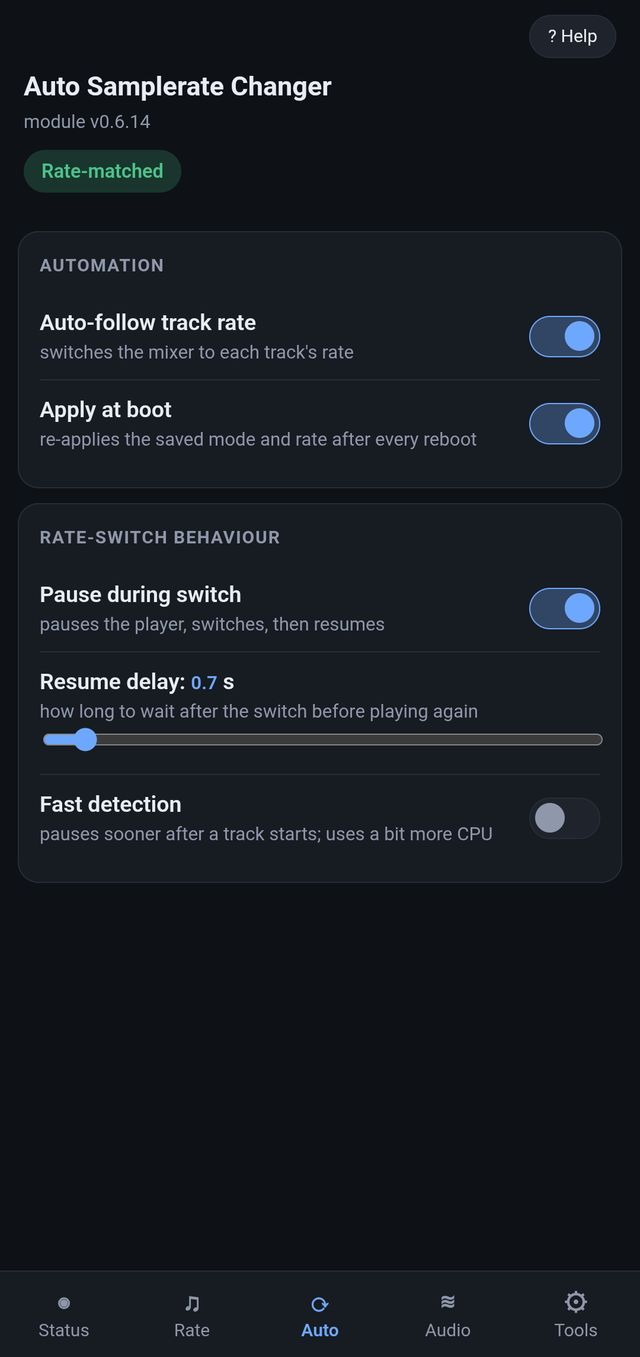
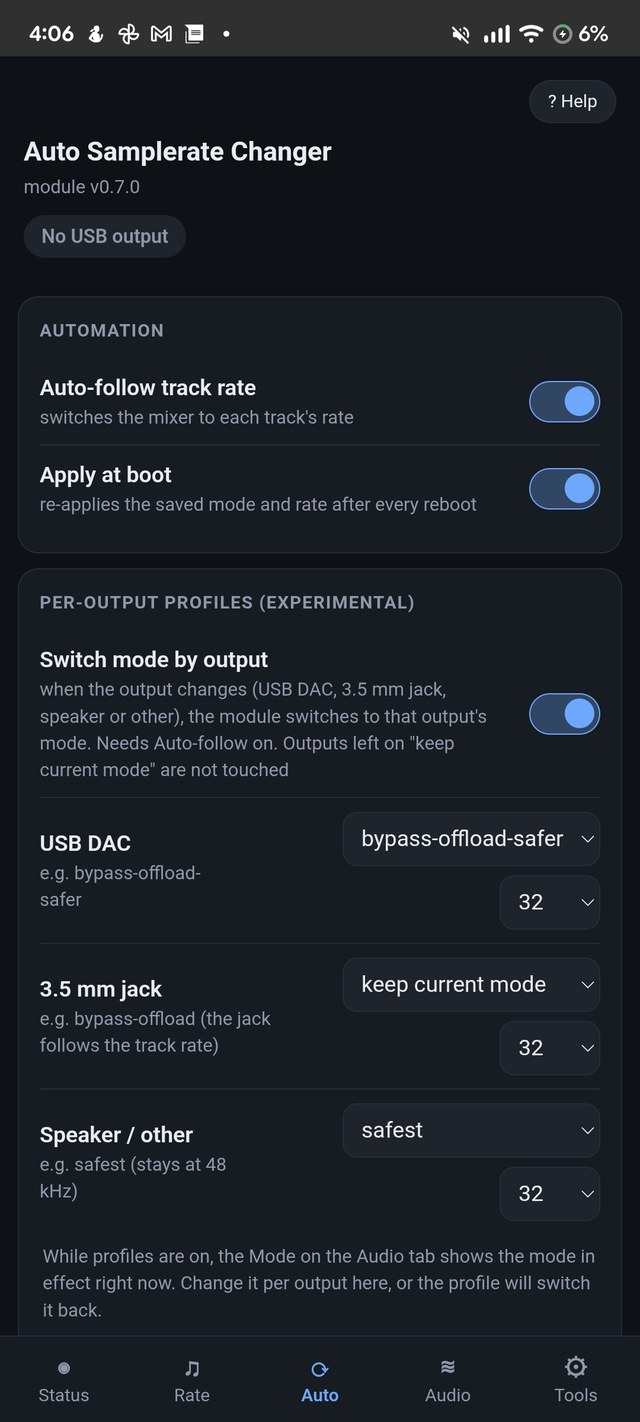
README: auto-follow for jack, profiles and extended rates; new Auto tab screenshots

diff --git a/README.md b/README.md
@@ -46,10 +46,10 @@ Rooted phones or tablets with an **external USB DAC** where the music app's outp
 <table>
 <tr><td align="center"><a href="docs/screenshots/01.jpg"><img src="docs/screenshots/01.jpg" width="200" alt="First run: Auto-follow nudge"></a><br><sub>First run: Auto-follow nudge</sub></td><td align="center"><a href="docs/screenshots/02.jpg"><img src="docs/screenshots/02.jpg" width="200" alt="No USB output"></a><br><sub>No USB output</sub></td><td align="center"><a href="docs/screenshots/03.jpg"><img src="docs/screenshots/03.jpg" width="200" alt="Apple Music, 96 kHz track"></a><br><sub>Apple Music, 96 kHz track</sub></td><td align="center"><a href="docs/screenshots/04.jpg"><img src="docs/screenshots/04.jpg" width="200" alt="Status, 96 kHz rate-matched"></a><br><sub>Status, 96 kHz rate-matched</sub></td></tr>
 <tr><td align="center"><a href="docs/screenshots/05.jpg"><img src="docs/screenshots/05.jpg" width="200" alt="Apple Music, 44.1 kHz track"></a><br><sub>Apple Music, 44.1 kHz track</sub></td><td align="center"><a href="docs/screenshots/06.jpg"><img src="docs/screenshots/06.jpg" width="200" alt="Status, 44.1 kHz rate-matched"></a><br><sub>Status, 44.1 kHz rate-matched</sub></td><td align="center"><a href="docs/screenshots/07.jpg"><img src="docs/screenshots/07.jpg" width="200" alt="Apple Music, 192 kHz track"></a><br><sub>Apple Music, 192 kHz track</sub></td><td align="center"><a href="docs/screenshots/08.jpg"><img src="docs/screenshots/08.jpg" width="200" alt="Status, 192 kHz rate-matched"></a><br><sub>Status, 192 kHz rate-matched</sub></td></tr>
-<tr><td align="center"><a href="docs/screenshots/09.jpg"><img src="docs/screenshots/09.jpg" width="200" alt="Rate tab"></a><br><sub>Rate tab</sub></td><td align="center"><a href="docs/screenshots/10.jpg"><img src="docs/screenshots/10.jpg" width="200" alt="Auto tab"></a><br><sub>Auto tab</sub></td><td align="center"><a href="docs/screenshots/11.jpg"><img src="docs/screenshots/11.jpg" width="200" alt="Audio tab"></a><br><sub>Audio tab</sub></td><td align="center"><a href="docs/screenshots/12.jpg"><img src="docs/screenshots/12.jpg" width="200" alt="Audio: which mode should I pick"></a><br><sub>Audio: which mode should I pick</sub></td></tr>
-<tr><td align="center"><a href="docs/screenshots/13.jpg"><img src="docs/screenshots/13.jpg" width="200" alt="Audio: mode list"></a><br><sub>Audio: mode list</sub></td><td align="center"><a href="docs/screenshots/14.jpg"><img src="docs/screenshots/14.jpg" width="200" alt="Audio: bit depth list"></a><br><sub>Audio: bit depth list</sub></td><td align="center"><a href="docs/screenshots/15.jpg"><img src="docs/screenshots/15.jpg" width="200" alt="Tools, Night theme"></a><br><sub>Tools, Night theme</sub></td><td align="center"><a href="docs/screenshots/16.jpg"><img src="docs/screenshots/16.jpg" width="200" alt="Tools: diagnostics and report"></a><br><sub>Tools: diagnostics and report</sub></td></tr>
-<tr><td align="center"><a href="docs/screenshots/17.jpg"><img src="docs/screenshots/17.jpg" width="200" alt="Day theme"></a><br><sub>Day theme</sub></td><td align="center"><a href="docs/screenshots/18.jpg"><img src="docs/screenshots/18.jpg" width="200" alt="Retro paper theme"></a><br><sub>Retro paper theme</sub></td><td align="center"><a href="docs/screenshots/19.jpg"><img src="docs/screenshots/19.jpg" width="200" alt="Retro night theme"></a><br><sub>Retro night theme</sub></td><td align="center"><a href="docs/screenshots/20.jpg"><img src="docs/screenshots/20.jpg" width="200" alt="Wavelet equalizer on"></a><br><sub>Wavelet equalizer on</sub></td></tr>
-<tr><td align="center"><a href="docs/screenshots/21.jpg"><img src="docs/screenshots/21.jpg" width="200" alt="Status with sound effects on"></a><br><sub>Status with sound effects on</sub></td><td align="center"><a href="docs/screenshots/22.jpg"><img src="docs/screenshots/22.jpg" width="200" alt="Wavelet idle, nothing applied"></a><br><sub>Wavelet idle, nothing applied</sub></td><td align="center"><a href="docs/screenshots/23.jpg"><img src="docs/screenshots/23.jpg" width="200" alt="Status, 192 kHz clean"></a><br><sub>Status, 192 kHz clean</sub></td></tr>
+<tr><td align="center"><a href="docs/screenshots/09.jpg"><img src="docs/screenshots/09.jpg" width="200" alt="Rate tab"></a><br><sub>Rate tab</sub></td><td align="center"><a href="docs/screenshots/10.jpg"><img src="docs/screenshots/10.jpg" width="200" alt="Auto tab: automation and per-output profiles"></a><br><sub>Auto tab: profiles</sub></td><td align="center"><a href="docs/screenshots/10-2.jpg"><img src="docs/screenshots/10-2.jpg" width="200" alt="Auto tab: rate-switch behaviour, jack and extended rates"></a><br><sub>Auto tab: jack and extended rates</sub></td><td align="center"><a href="docs/screenshots/11.jpg"><img src="docs/screenshots/11.jpg" width="200" alt="Audio tab"></a><br><sub>Audio tab</sub></td></tr>
+<tr><td align="center"><a href="docs/screenshots/12.jpg"><img src="docs/screenshots/12.jpg" width="200" alt="Audio: which mode should I pick"></a><br><sub>Audio: which mode should I pick</sub></td><td align="center"><a href="docs/screenshots/13.jpg"><img src="docs/screenshots/13.jpg" width="200" alt="Audio: mode list"></a><br><sub>Audio: mode list</sub></td><td align="center"><a href="docs/screenshots/14.jpg"><img src="docs/screenshots/14.jpg" width="200" alt="Audio: bit depth list"></a><br><sub>Audio: bit depth list</sub></td><td align="center"><a href="docs/screenshots/15.jpg"><img src="docs/screenshots/15.jpg" width="200" alt="Tools, Night theme"></a><br><sub>Tools, Night theme</sub></td></tr>
+<tr><td align="center"><a href="docs/screenshots/16.jpg"><img src="docs/screenshots/16.jpg" width="200" alt="Tools: diagnostics and report"></a><br><sub>Tools: diagnostics and report</sub></td><td align="center"><a href="docs/screenshots/17.jpg"><img src="docs/screenshots/17.jpg" width="200" alt="Day theme"></a><br><sub>Day theme</sub></td><td align="center"><a href="docs/screenshots/18.jpg"><img src="docs/screenshots/18.jpg" width="200" alt="Retro paper theme"></a><br><sub>Retro paper theme</sub></td><td align="center"><a href="docs/screenshots/19.jpg"><img src="docs/screenshots/19.jpg" width="200" alt="Retro night theme"></a><br><sub>Retro night theme</sub></td></tr>
+<tr><td align="center"><a href="docs/screenshots/20.jpg"><img src="docs/screenshots/20.jpg" width="200" alt="Wavelet equalizer on"></a><br><sub>Wavelet equalizer on</sub></td><td align="center"><a href="docs/screenshots/21.jpg"><img src="docs/screenshots/21.jpg" width="200" alt="Status with sound effects on"></a><br><sub>Status with sound effects on</sub></td><td align="center"><a href="docs/screenshots/22.jpg"><img src="docs/screenshots/22.jpg" width="200" alt="Wavelet idle, nothing applied"></a><br><sub>Wavelet idle, nothing applied</sub></td><td align="center"><a href="docs/screenshots/23.jpg"><img src="docs/screenshots/23.jpg" width="200" alt="Status, 192 kHz clean"></a><br><sub>Status, 192 kHz clean</sub></td></tr>
 </table>
 
 Tap an image for full size.
